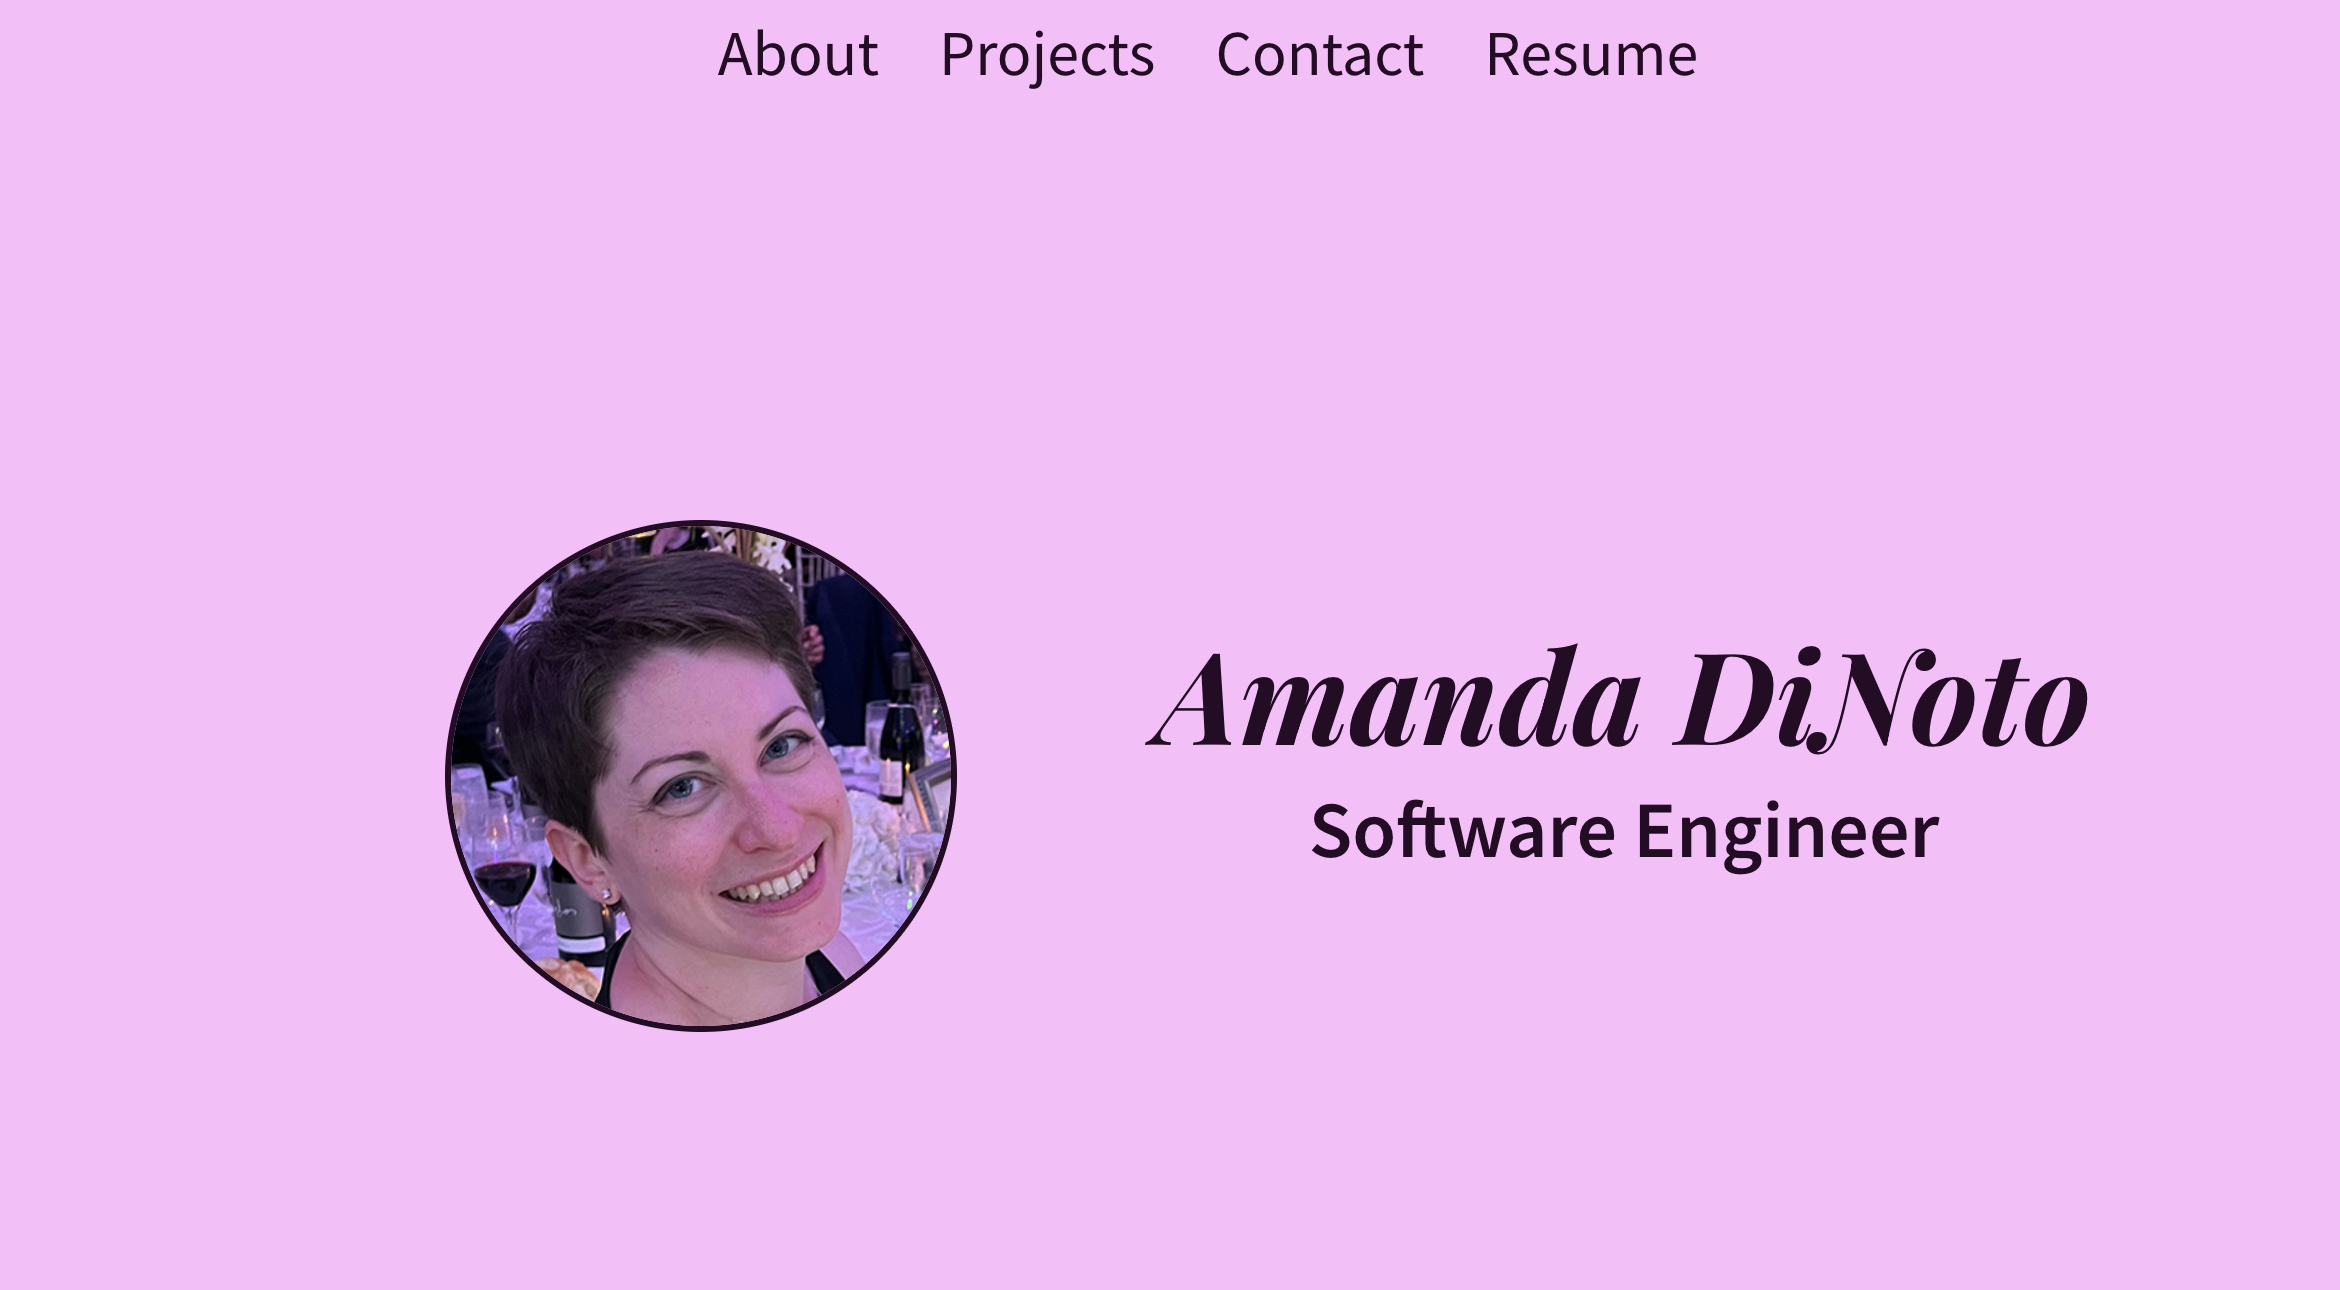
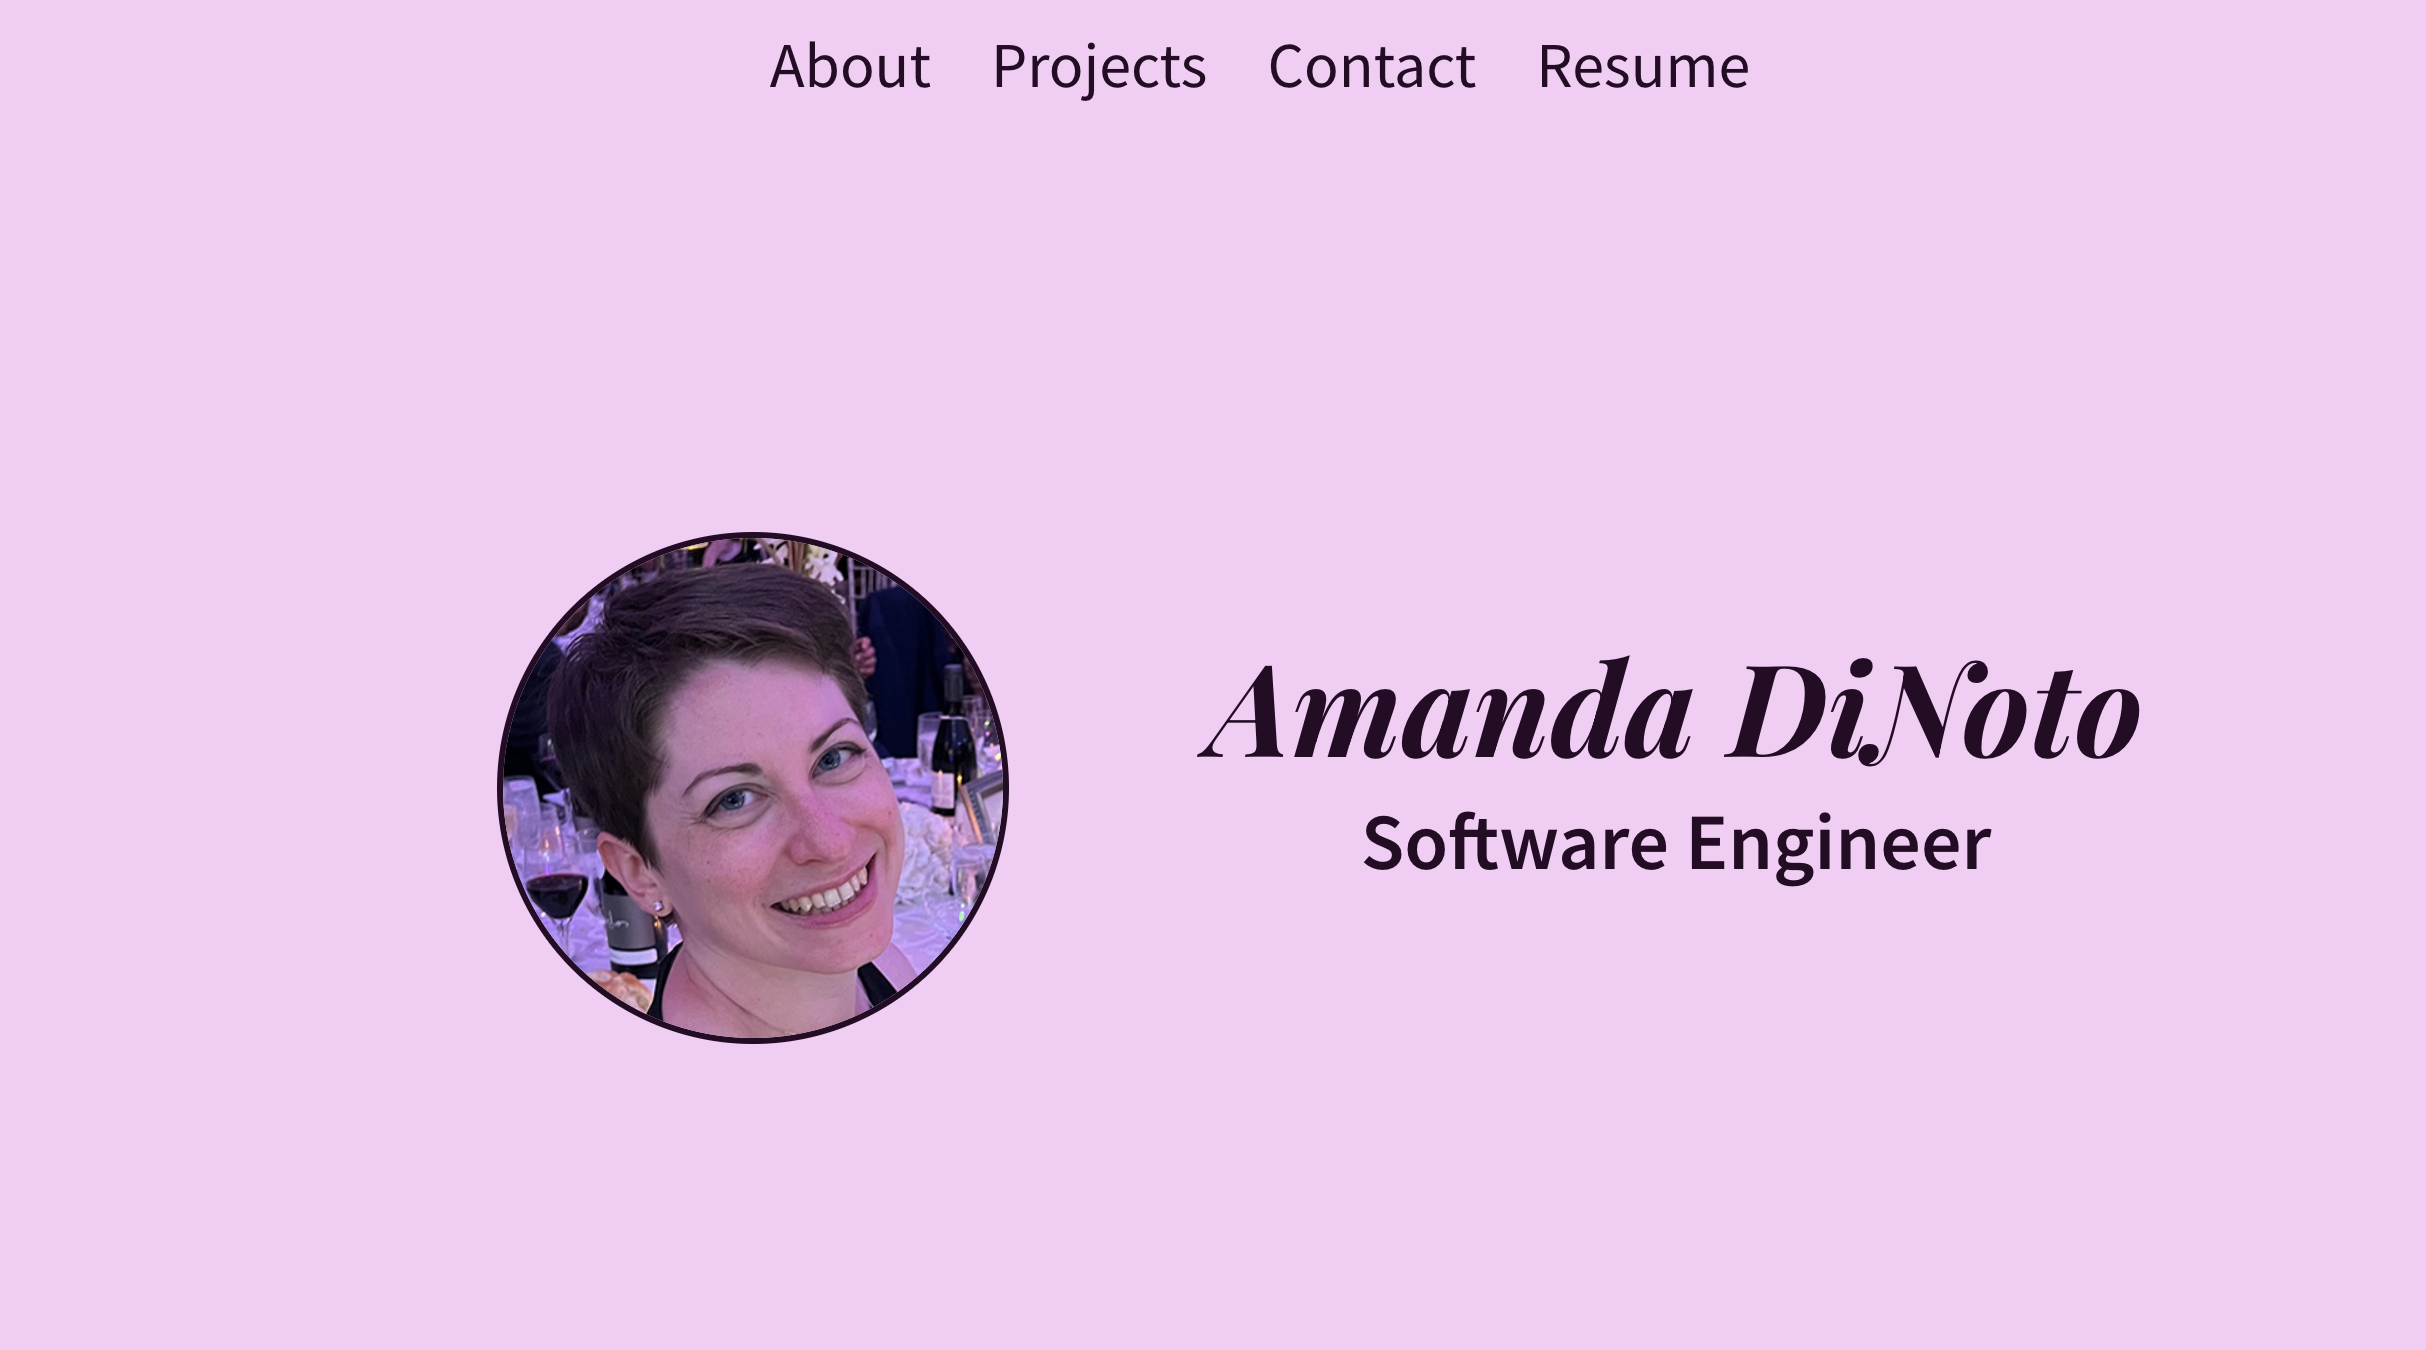
adjust background color and resizing for projects on smaller screens

Changed region(s): [[0.1872, 0.3721, 0.4368, 0.8062], [0.4991, 0.4961, 0.9047, 0.6822], [0.312, 0.031, 0.7487, 0.093]]

diff --git a/src/components/contact.jsx b/src/components/contact.jsx
@@ -7,7 +7,7 @@ import email from '../assets/email.png'
 function Contact() {
   return (
     <section id="contact">
-      <h1>Contact</h1>
+      <h2>Contact</h2>
       <div className="links">
         <a href="mailto:amanda.dinoto@gmail.com"><img className="icon" src={email} alt="email icon" /></a>
         <a href="https://www.linkedin.com/in/amanda-dinoto/" rel="noopener noreferrer" target="_blank"><img className="icon" src={linkedin} alt="linkedIn logo" /></a>

diff --git a/src/index.css b/src/index.css
@@ -1,7 +1,7 @@
 @import url('https://fonts.googleapis.com/css2?family=Playfair+Display:ital,wght@1,700&family=Source+Sans+Pro:wght@400;600&display=swap');
 
 :root {
-  --pink: rgb(252, 187, 251);
+  --pink: rgb(247, 203, 246);
   --purple: rgb(38, 11, 38);
 }
 body {
@@ -19,7 +19,6 @@ code {
 }
 
 section {
-  padding-top: 50px;
   display: flex;
   flex-direction: column;
   align-items: center;

diff --git a/src/components/projects.css b/src/components/projects.css
@@ -31,11 +31,13 @@
 }
 
 @media only screen and (max-width: 1200px) {
-  .project-row {
-    flex-direction: column;
-  }
-
   .project-img > a > img {
     width: 300px;
+  }
+}
+
+@media only screen and (max-width: 860px) {
+  .project-row {
+    flex-direction: column;
   }
 }

diff --git a/src/components/contact.css b/src/components/contact.css
@@ -14,6 +14,12 @@
   color: var(--pink);
 }
 
+#contact > h2 {
+  font-family: 'Playfair Display', serif;
+  font-size: 2.5rem;
+  font-weight: bold;
+}
+
 @media only screen and (max-width: 1400px) {
 
   .icon {

diff --git a/src/components/header.css b/src/components/header.css
@@ -8,7 +8,7 @@ header {
 }
 
 .nav {
-  background-color: rgba(252, 187, 251,0.9);
+  background-color: rgba(247, 203, 246,0.9);
   position: fixed;
   top: 0;
   left: 0;
